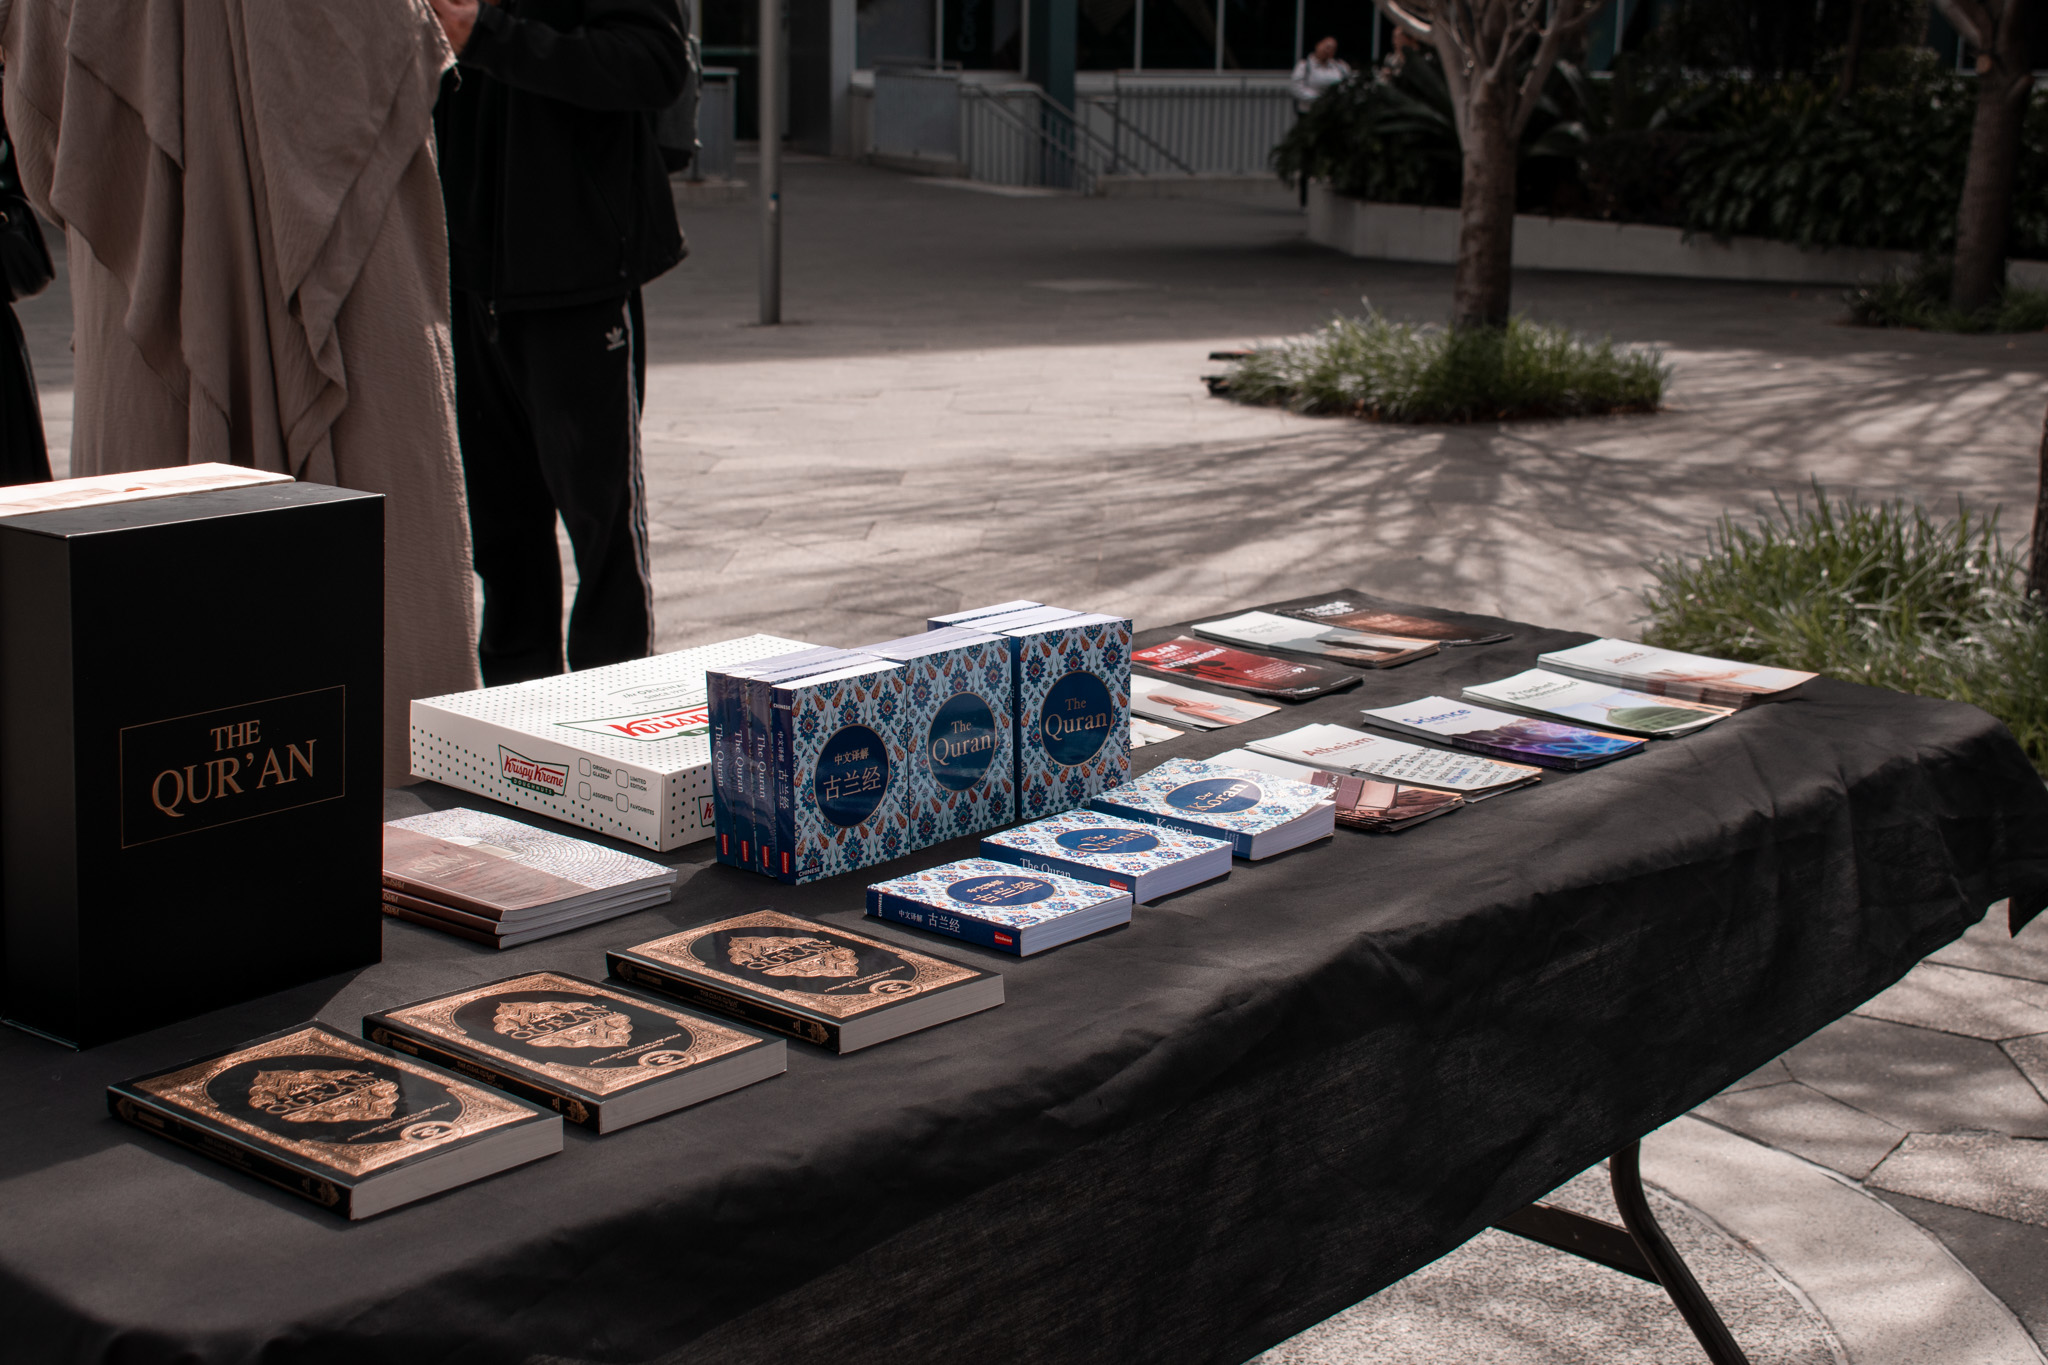
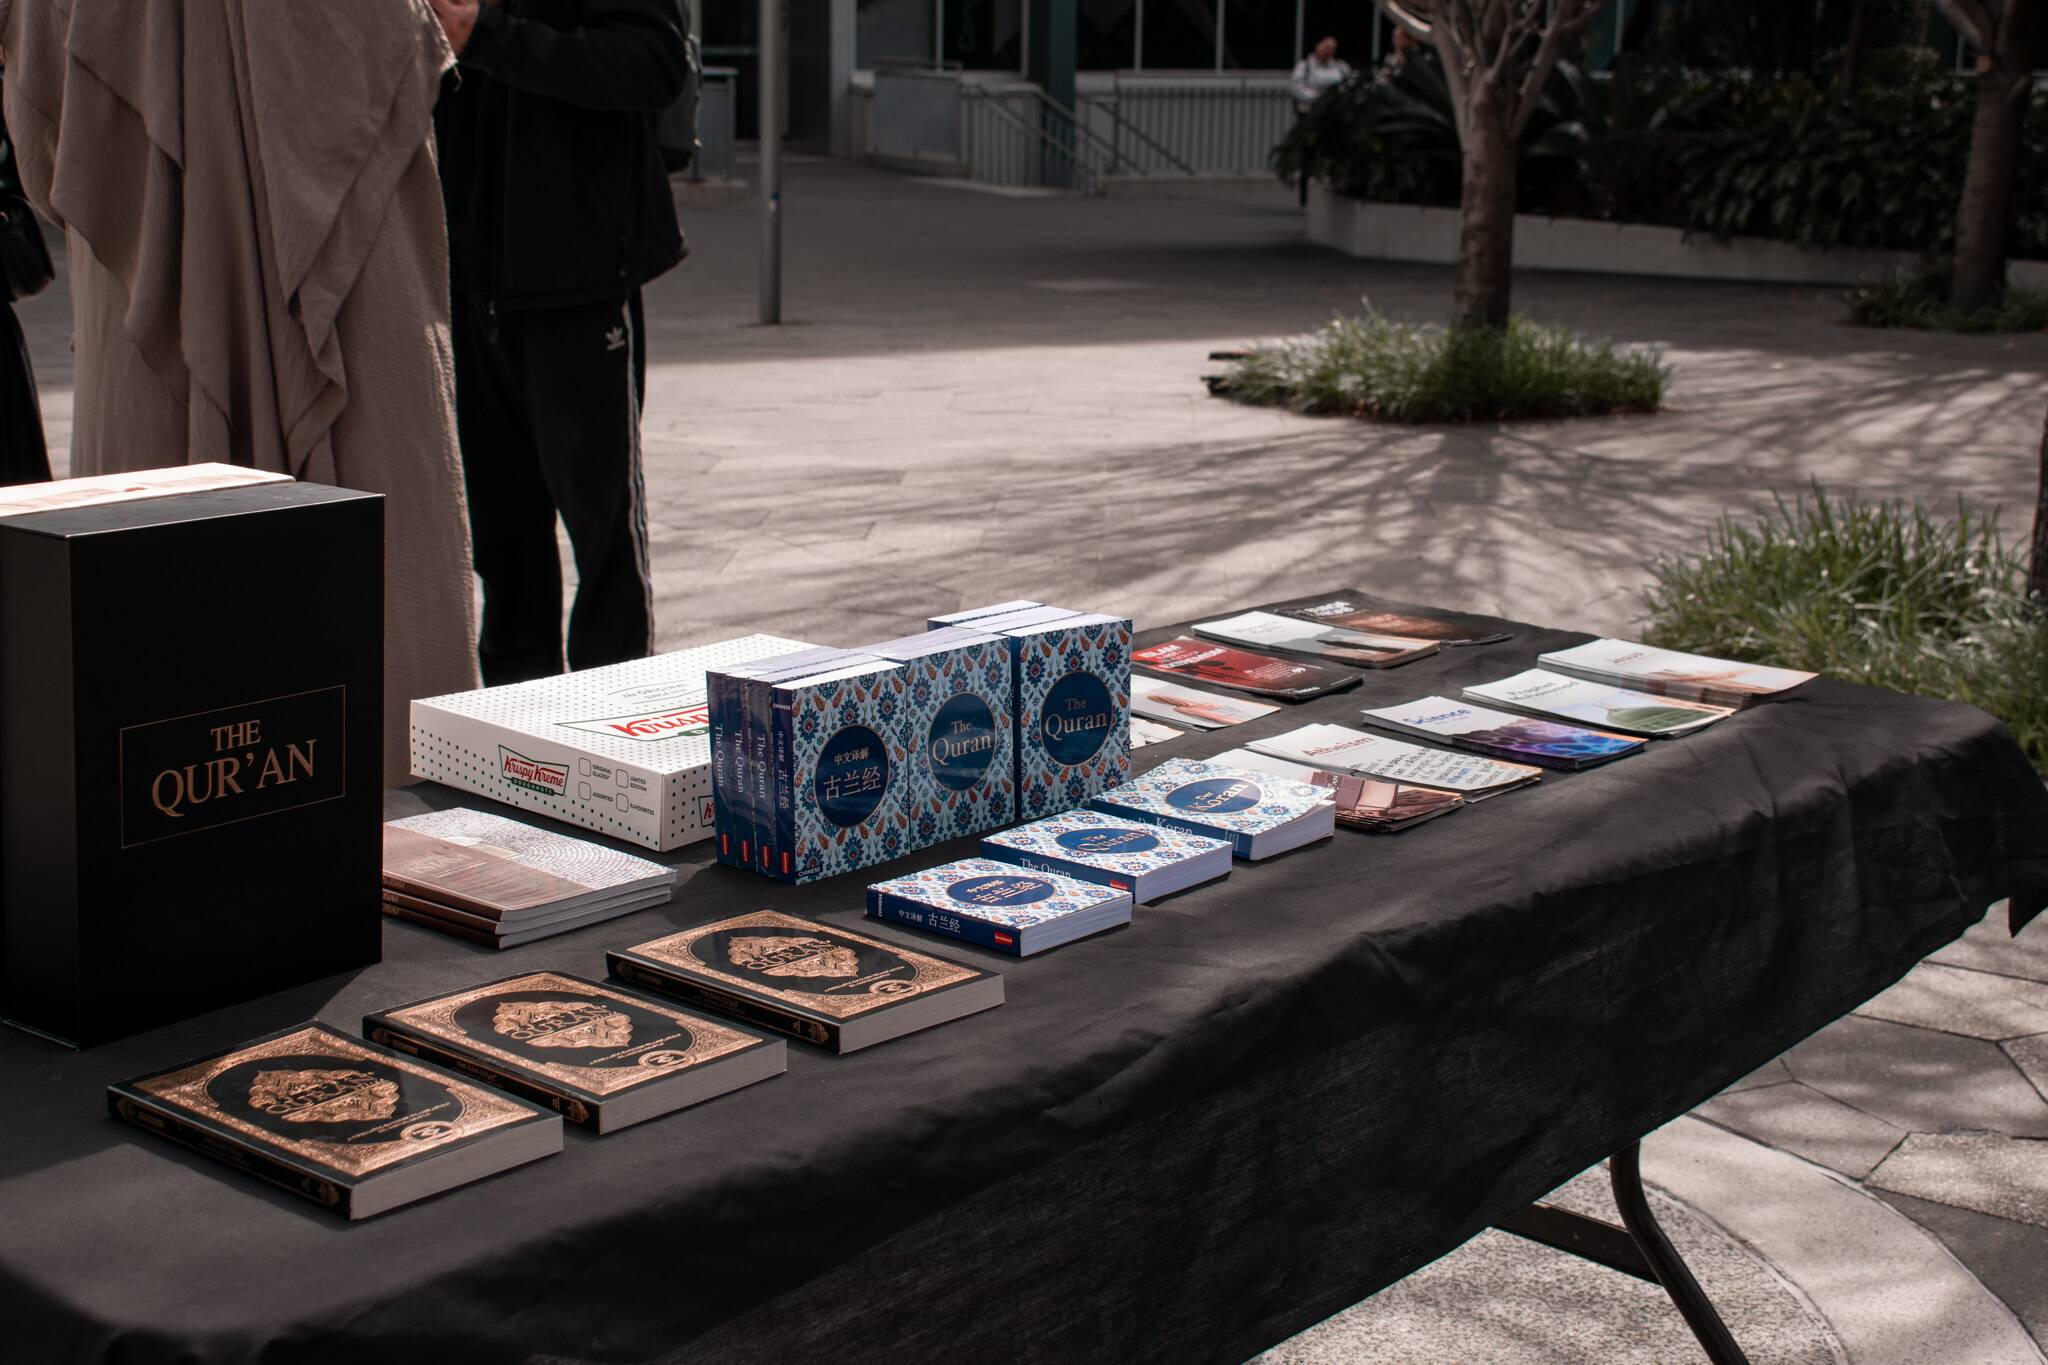
Slider Image optimisation

Changed region(s): [[0.4375, 0.5538, 0.5938, 0.6769], [0.3125, 0.5231, 0.3438, 0.5538], [0.25, 0.5538, 0.2812, 0.5846]]

diff --git a/src/Components/Events/Events.jsx b/src/Components/Events/Events.jsx
@@ -14,21 +14,29 @@ const Events = () => {
       <ContentBox />
       <ImageSlider direction={1}>
         {Images.map((image) => (
-          <div
-            style={{
-              backgroundImage: `url(${image})`,
-            }}
-          />
+          <div>
+            <img
+              loading="lazy"
+              role="Presentation"
+              src={image}
+              width={"100%"}
+              height={"100%"}
+            />
+          </div>
         ))}
       </ImageSlider>
 
       <ImageSlider direction={-1}>
         {Images.map((image) => (
-          <div
-            style={{
-              backgroundImage: `url(${image})`,
-            }}
-          />
+          <div>
+            <img
+              loading="lazy"
+              role="Presentation"
+              src={image}
+              width={"100%"}
+              height={"100%"}
+            />
+          </div>
         ))}
       </ImageSlider>
     </div>

diff --git a/src/Components/Events/ImageSlider.module.css b/src/Components/Events/ImageSlider.module.css
@@ -12,10 +12,10 @@
   width: 100%;
   gap: 2vw;
 }
-
 .slider-track > div {
   align-content: center;
   font-family: sans-serif;
+  display: flex;
   font-size: 6em;
   text-align: center;
   width: 0.6em;
@@ -24,6 +24,9 @@
   background-size: cover;
   background-position: center;
   border-radius: 1.5vw;
+}
+.slider-track > div > img{
+  border-radius: inherit;
 }
 
 .slider-track > div:first-child {
